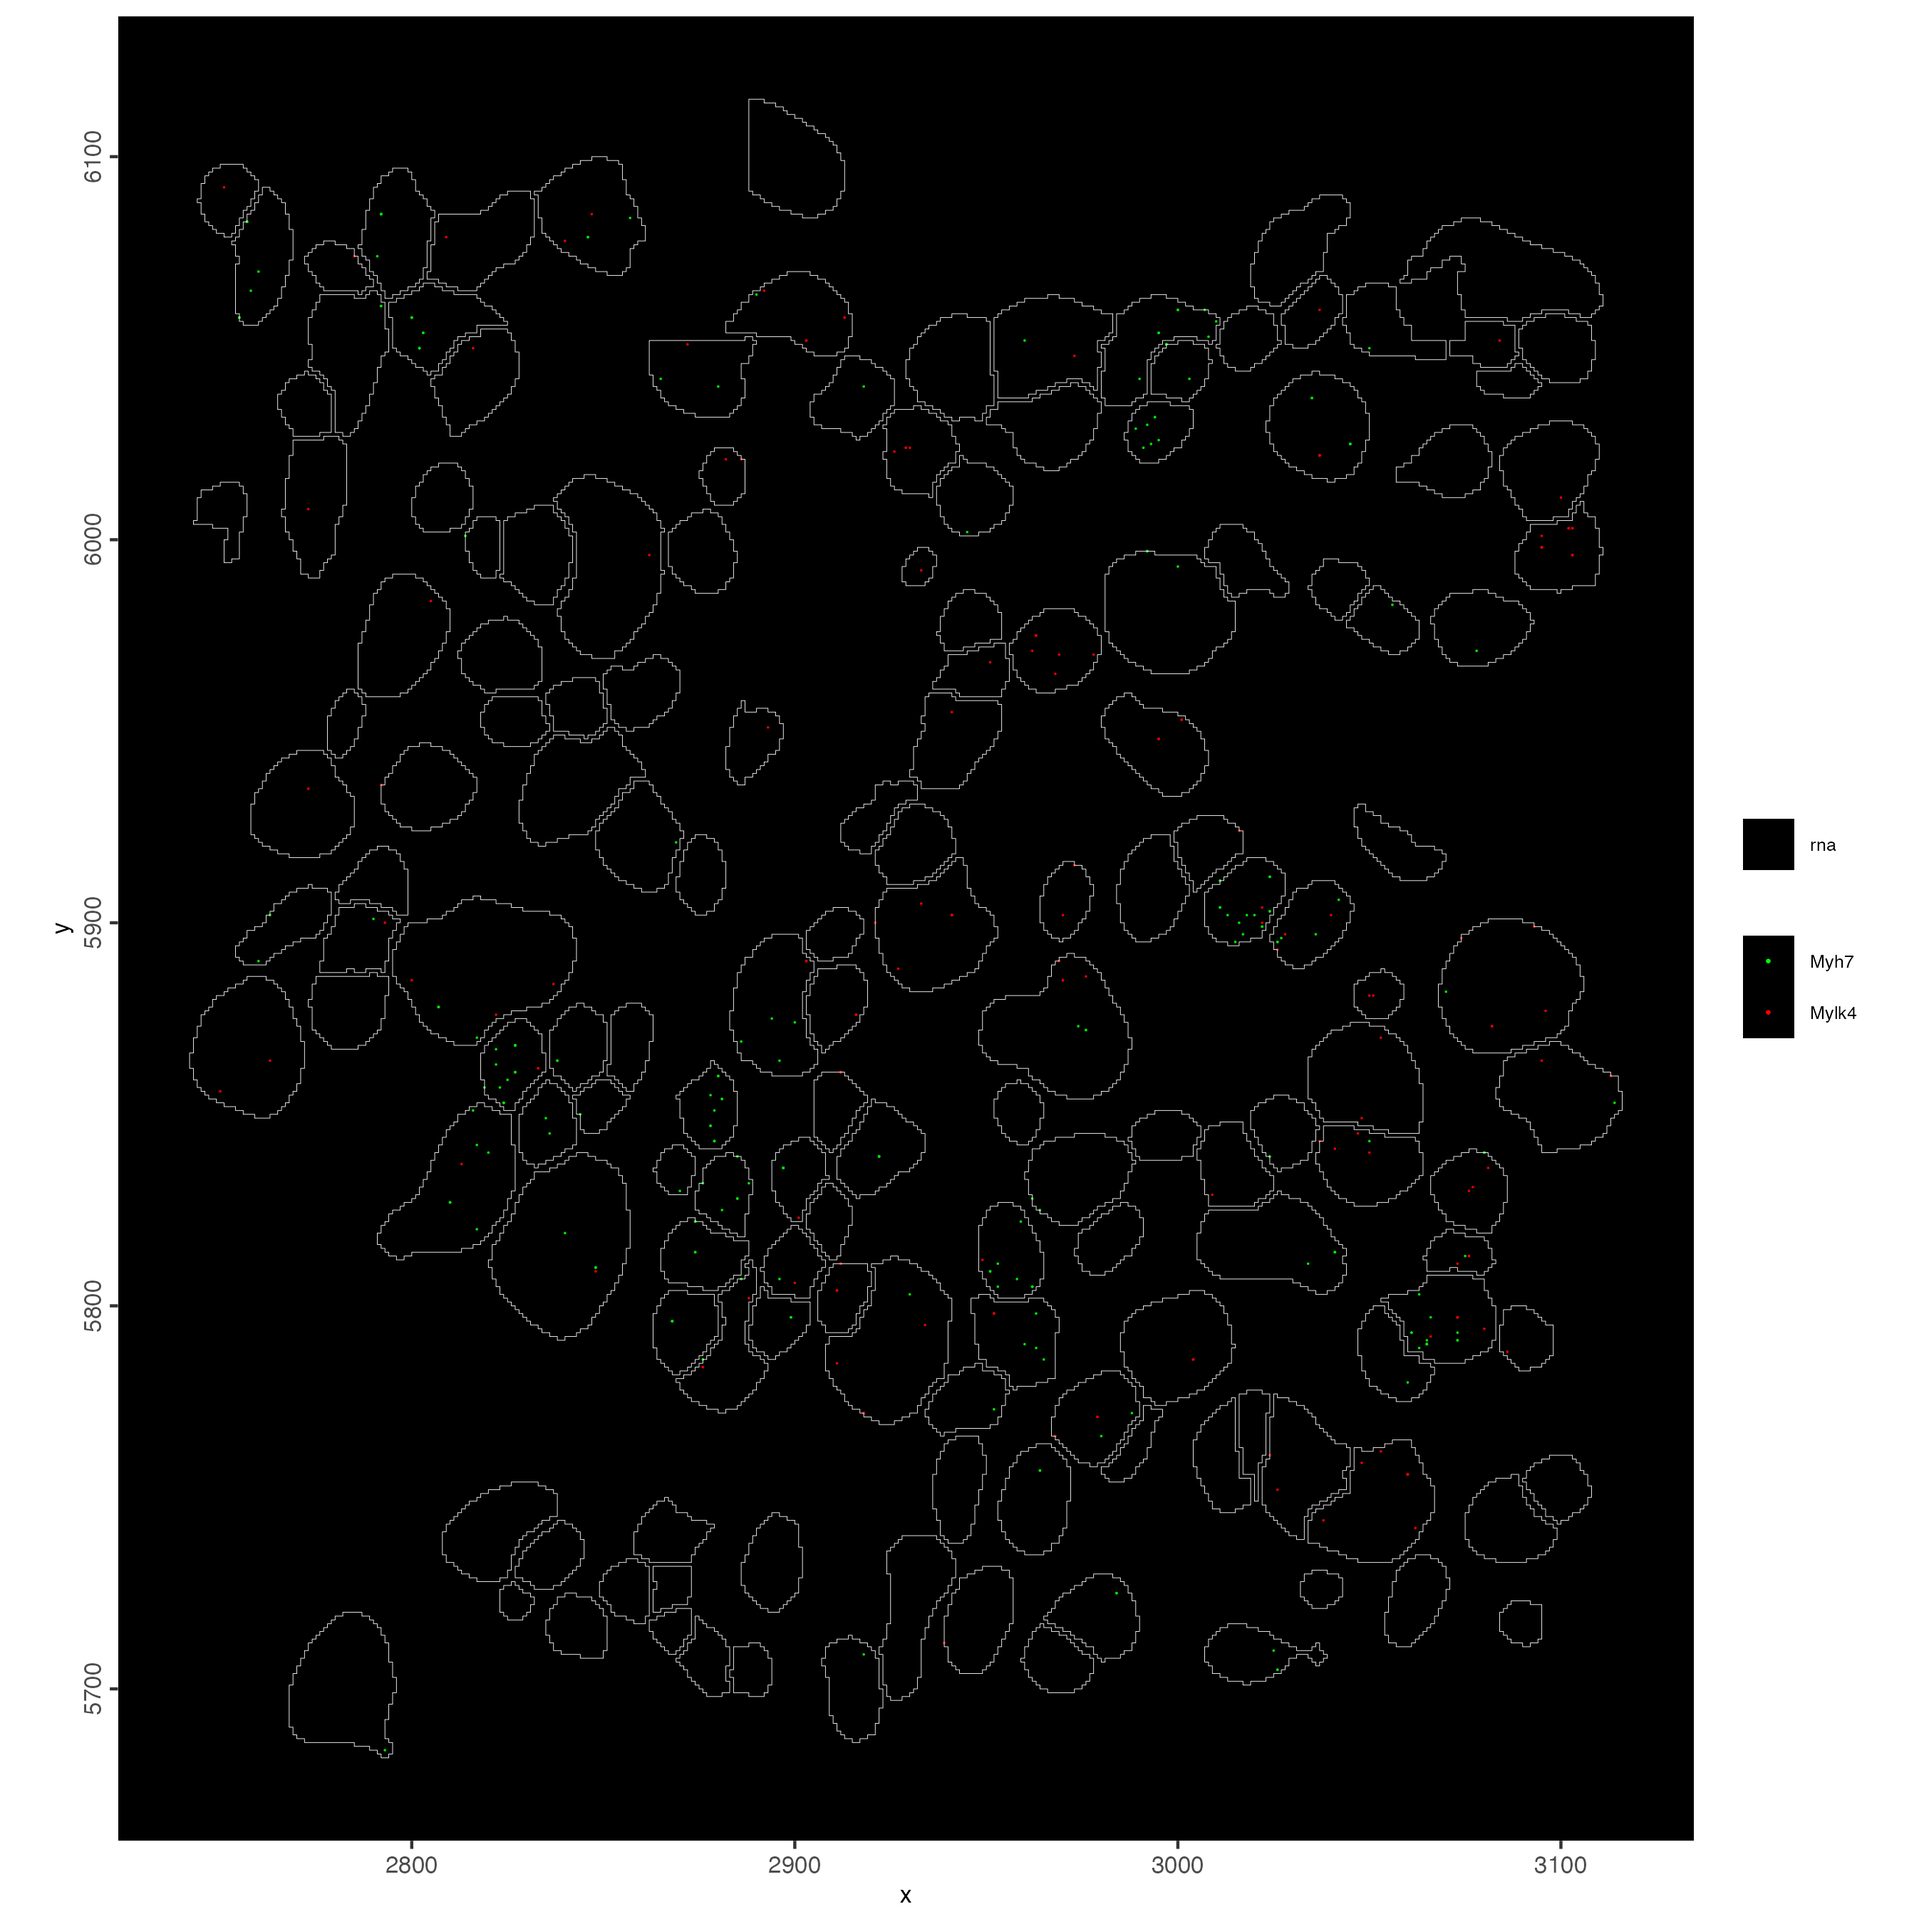
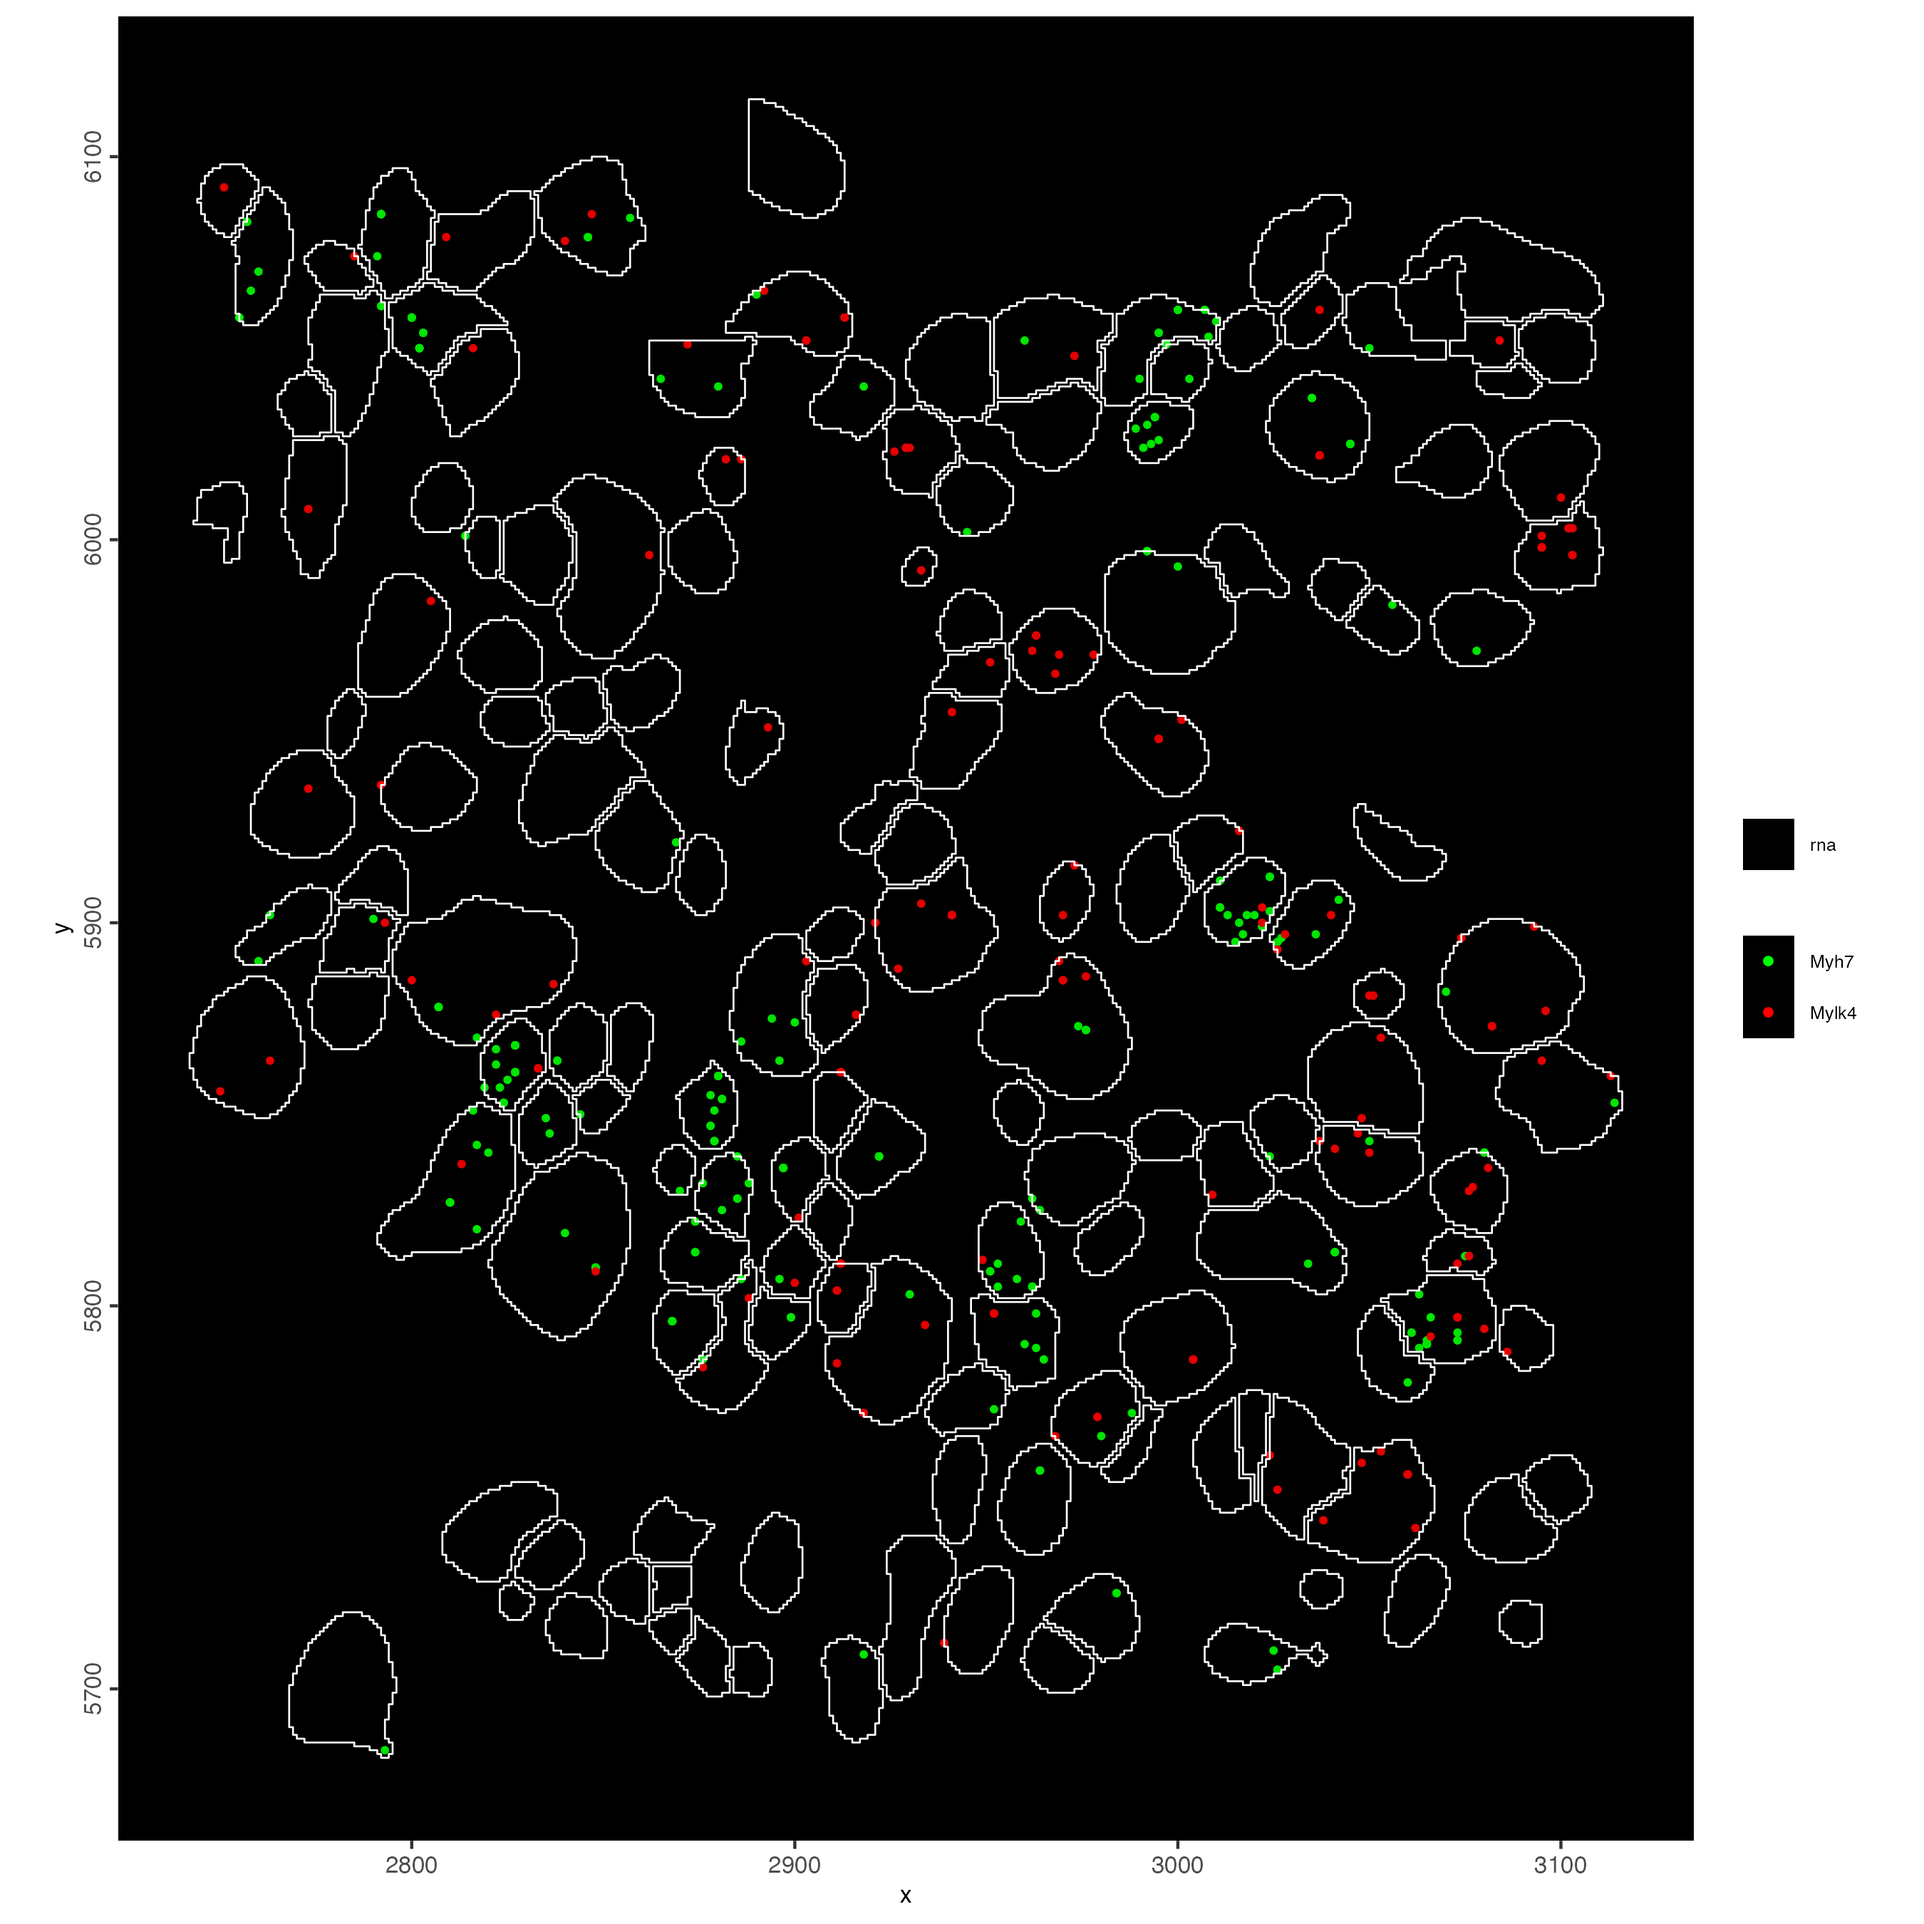
Deploying to gh-pages from @ drieslab/Giotto_website@2c04f1cb5ec7c753d84df545633b814d1be624b0 🚀

diff --git a/articles/stereoseq_mouse_eyeball.html b/articles/stereoseq_mouse_eyeball.html
@@ -911,11 +911,11 @@ sample and obtain a zoomed in visualization of the transcripts.</p>
 <span>                     feats_color_code <span class="op">=</span> <span class="fu"><a href="https://rdrr.io/r/base/c.html" class="external-link">c</a></span><span class="op">(</span><span class="st">"Myh7"</span> <span class="op">=</span> <span class="st">"green"</span>,</span>
 <span>                                          <span class="st">"Mylk4"</span> <span class="op">=</span> <span class="st">"red"</span><span class="op">)</span>,</span>
 <span>                     spat_unit <span class="op">=</span> <span class="st">"cell"</span>,</span>
-<span>                     point_size <span class="op">=</span> <span class="fl">0.3</span>,</span>
+<span>                     point_size <span class="op">=</span> <span class="fl">1</span>,</span>
 <span>                     use_overlap <span class="op">=</span> <span class="cn">TRUE</span>,</span>
 <span>                     polygon_color <span class="op">=</span> <span class="st">"white"</span>,</span>
 <span>                     polygon_alpha <span class="op">=</span> <span class="fl">0.1</span>,</span>
-<span>                     polygon_line_size <span class="op">=</span> <span class="fl">0.1</span>,</span>
+<span>                     polygon_line_size <span class="op">=</span> <span class="fl">0.3</span>,</span>
 <span>                     background_color <span class="op">=</span> <span class="st">"black"</span></span>
 <span><span class="op">)</span></span></code></pre></div>
 <p><img src="images/stereoseq_mouse_eyeball/6-spatInSituPlotPoints.png" alt="Spatial locations of Gnai3 and Cdc45 transcripts" width="60%" style="display: block; margin: auto;"></p>
